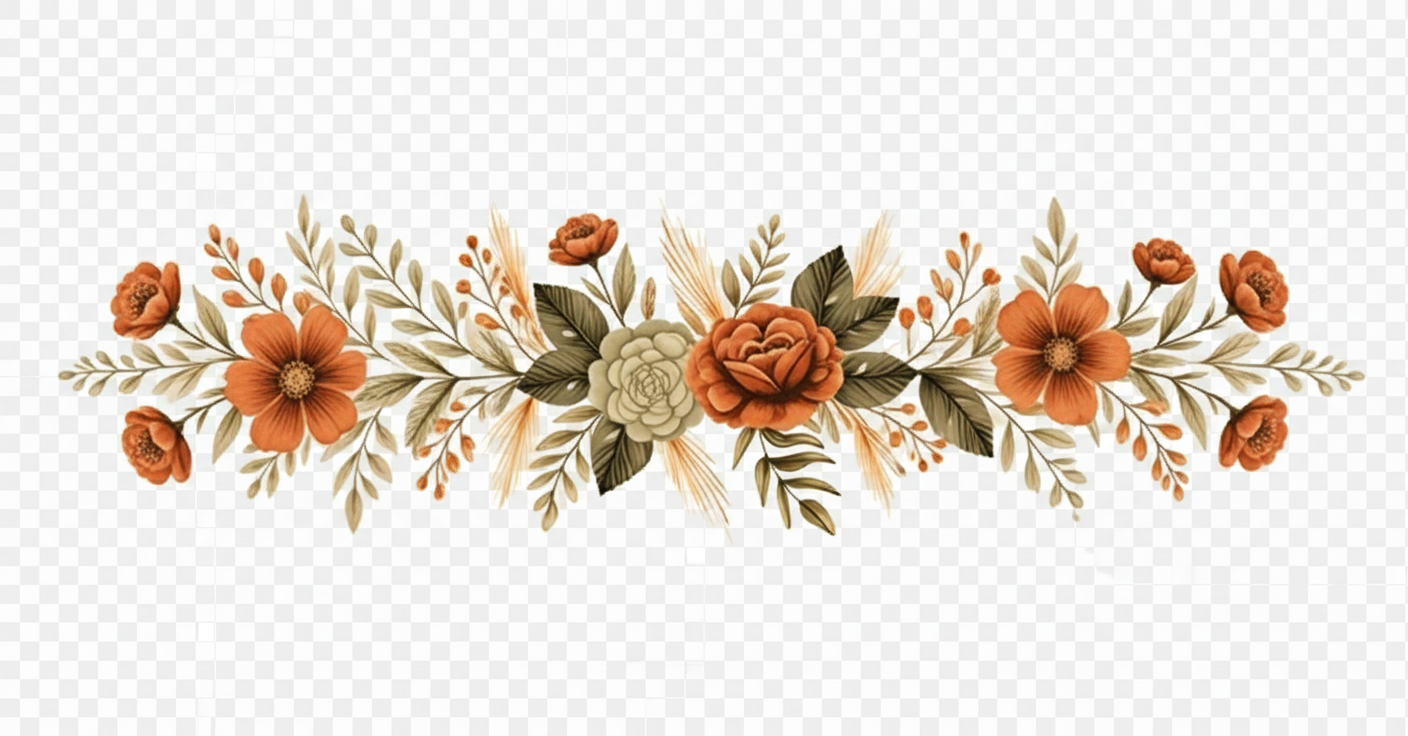
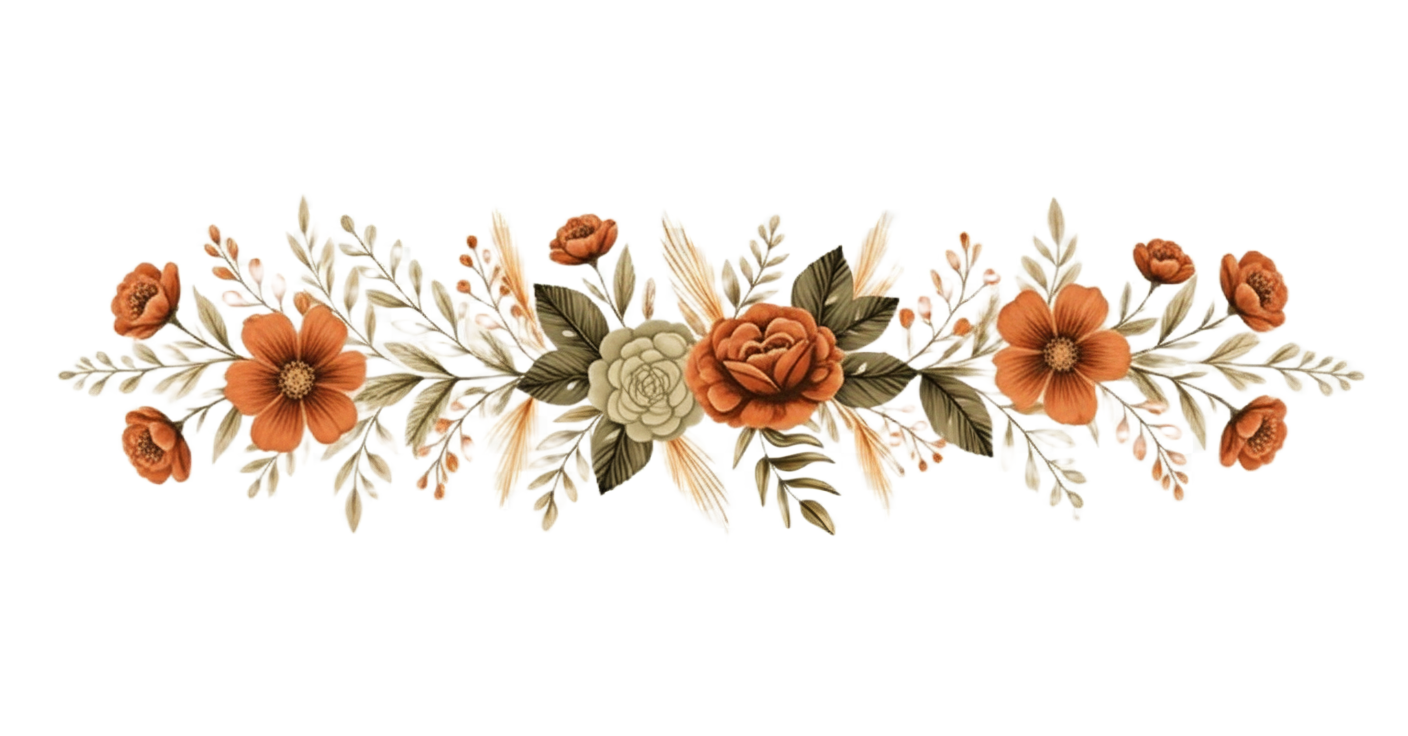
Sitio Web Ricardo y Rocio

Changed region(s): [[0.0312, 0.2812, 0.9688, 0.7188], [0.8125, 0.3125, 0.8438, 0.3438]]

diff --git a/src/components/wedding/Hero.tsx b/src/components/wedding/Hero.tsx
@@ -9,8 +9,8 @@ export default function Hero() {
     <div className="relative text-[#634F34] w-full h-[80vh] min-h-[600px] flex items-center justify-center text-center overflow-hidden">
       <div className="absolute inset-0" />
       <div className="relative z-10 p-4 animate-fade-in-up">
-        <h1 className="text-6xl md:text-8xl font-headline" style={{ textShadow: '2px 2px 8px rgba(0,0,0,0.5)', fontSize: "8rem", fontFamily: "'Mea Culpa', cursive" }}>
-          Ricardo & Rocio
+        <h1 className="text-6xl md:text-8xl font-headline" style={{ textShadow: '2px 2px 8px rgba(0,0,0,0.5)', lineHeight: "80px", fontSize: "8rem", fontFamily: "'Mea Culpa', cursive" }}>
+          Ricardo<br /><span className="text-primary" style={{ fontSize: "6rem", fontFamily: "'Mea Culpa', cursive" }}>&</span><br />Rocio
         </h1>
         <div className="mt-8">
           <Countdown />

diff --git a/src/components/wedding/FlowerDivider.tsx b/src/components/wedding/FlowerDivider.tsx
@@ -4,13 +4,11 @@ import flowerDivider from '@/app/flowers.png';
 
 export default function FlowerDivider({ className }: { className?: string }) {
   return (
-    <div className={cn("flex items-center justify-center my-8 md:my-12", className)}>
-        <div className="relative h-24 w-full max-w-sm">
+    <div className={cn("flex items-center justify-center", className)}>
+        <div className="relative w-full max-w-6xl">
           <Image 
             src={flowerDivider} 
             alt="flower-divider"
-            style={{ objectFit: 'contain' }}
-            fill
             priority
           />
         </div>

diff --git a/src/components/wedding/Agenda.tsx b/src/components/wedding/Agenda.tsx
@@ -15,7 +15,7 @@ const agendaItems = [
             "Cundinamarca"
         ],
         links: [
-            { text: "Google Maps", url: "https://maps.app.goo.gl/UGLRZQC46Z8QWKYF9" },
+            { text: "Google Maps", url: "https://maps.app.goo.gl/kB2g2m4P9XCX4DA96" },
             { text: "Waze", url: "https://waze.com/ul/hd2g5wtyy0" }
         ]
     },

diff --git a/src/components/ui/card.tsx b/src/components/ui/card.tsx
@@ -9,7 +9,7 @@ const Card = React.forwardRef<
   <div
     ref={ref}
     className={cn(
-      "rounded-lg border bg-card text-card-foreground shadow-sm",
+      "rounded-lg border text-card-foreground",
       className
     )}
     {...props}
